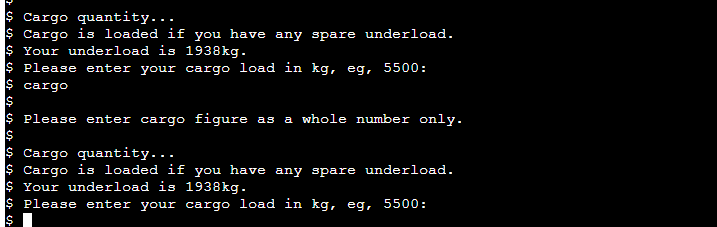
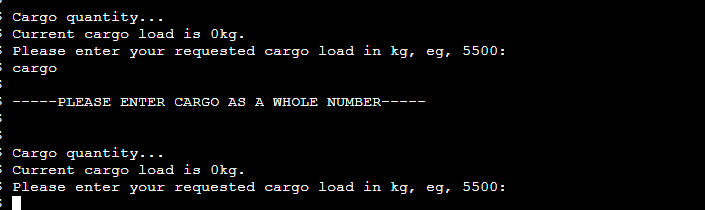
Add updated screenschots to readme to reflect the refactored cargo loading code.

Changed region(s): [[0.0, 0.0, 0.7177, 1.0]]

diff --git a/README.md b/README.md
@@ -119,20 +119,17 @@ creates an instance of the aircraft chosen. The respective loading figures are t
     Incorrect input character <br>
     ![Pax error image](assets/images/pax-error.png)</details>
 
-* **No underload** <details><summary>Screenshots</summary>
-    This feature prevent the loading of cargo as the aircraft is already too heavy. It directs the user to remove either some passengers, fuel or previously loaded cargo. <br>
-    ![Underload Image](assets/images/no-underload.png)</details>
-
 * **Cargo input** <details><summary>Screenshots</summary>
 
     Initial cargo input <br>
     <img src="assets/images/cargo-input.png" alt="Cargo input image">
 
-    Too much cargo <br>
-    ![Too much cargo image](assets/images/high-cargo.png)
-
     Incorrect input character <br>
     ![Incorrect cargo](assets/images/cargo-error.png)</details>
+
+* **High Take-off weight** <details><summary>Screenshots</summary>
+    This feature prevents the aircraft from being loaded above the maximum take-off weight. If overweight, it gives the user the choice to remove passengers, fuel or cargo.<br>
+    ![Underload Image](assets/images/high-tow.png)</details>
 
 * **Print Loadsheet** <details><summary>Screenshots</summary>
     Prints the compiled loadsheet to the application interface and gives the user the option to load another flight or exit. <br>
